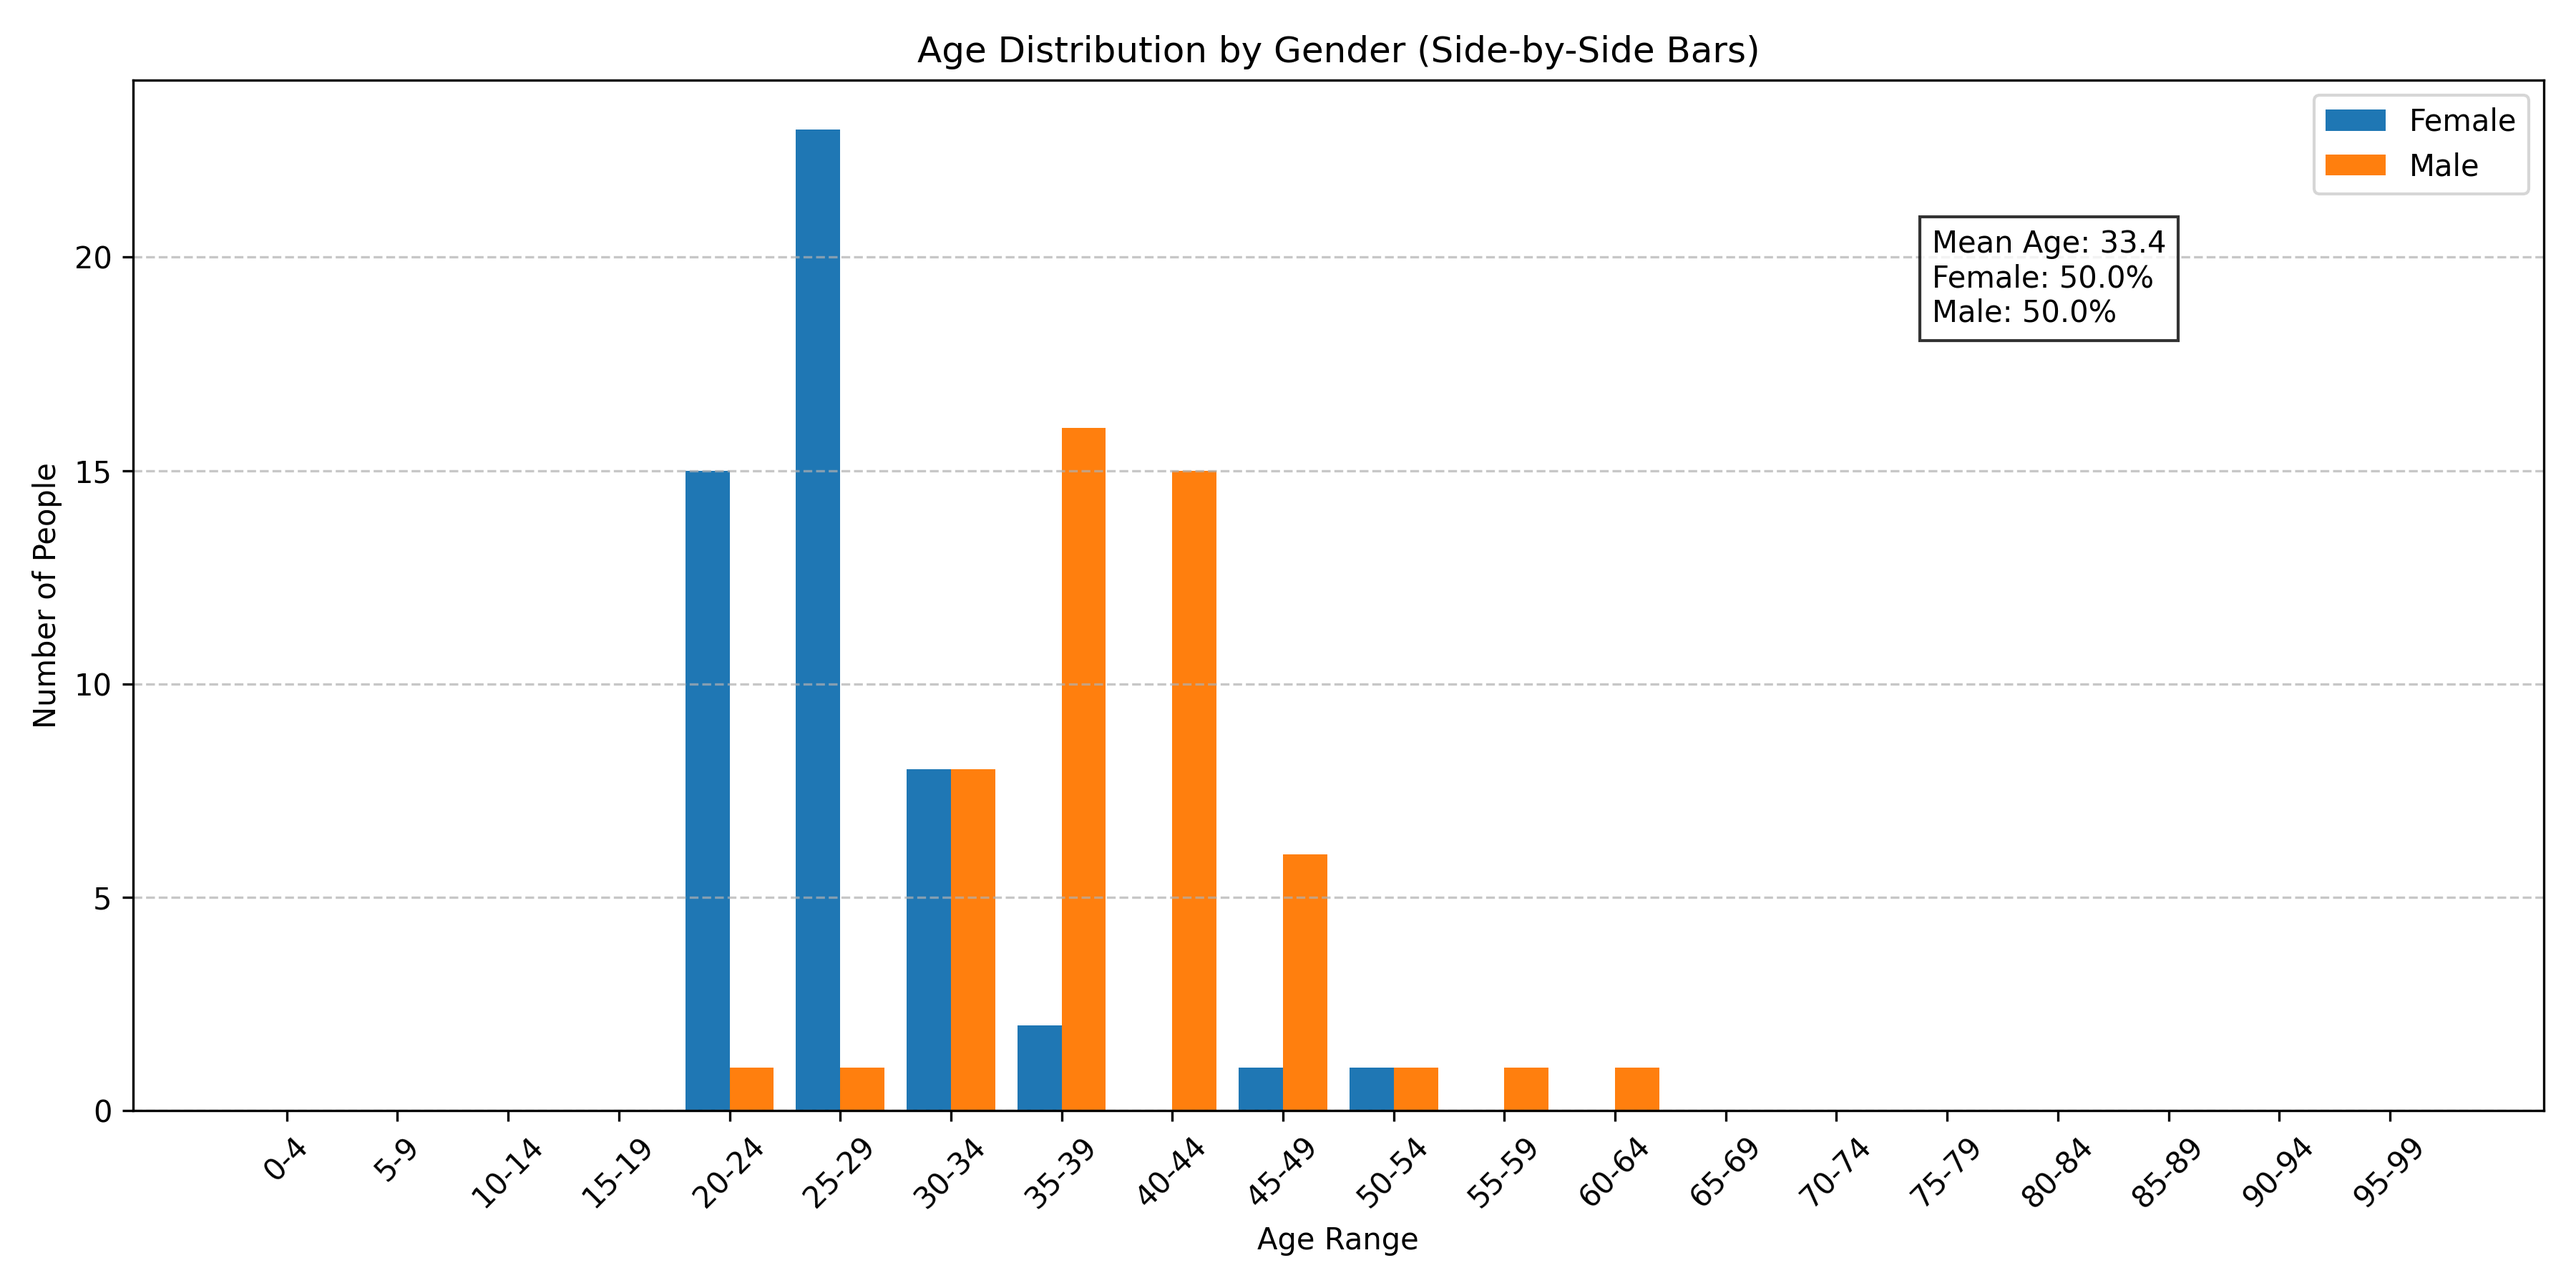
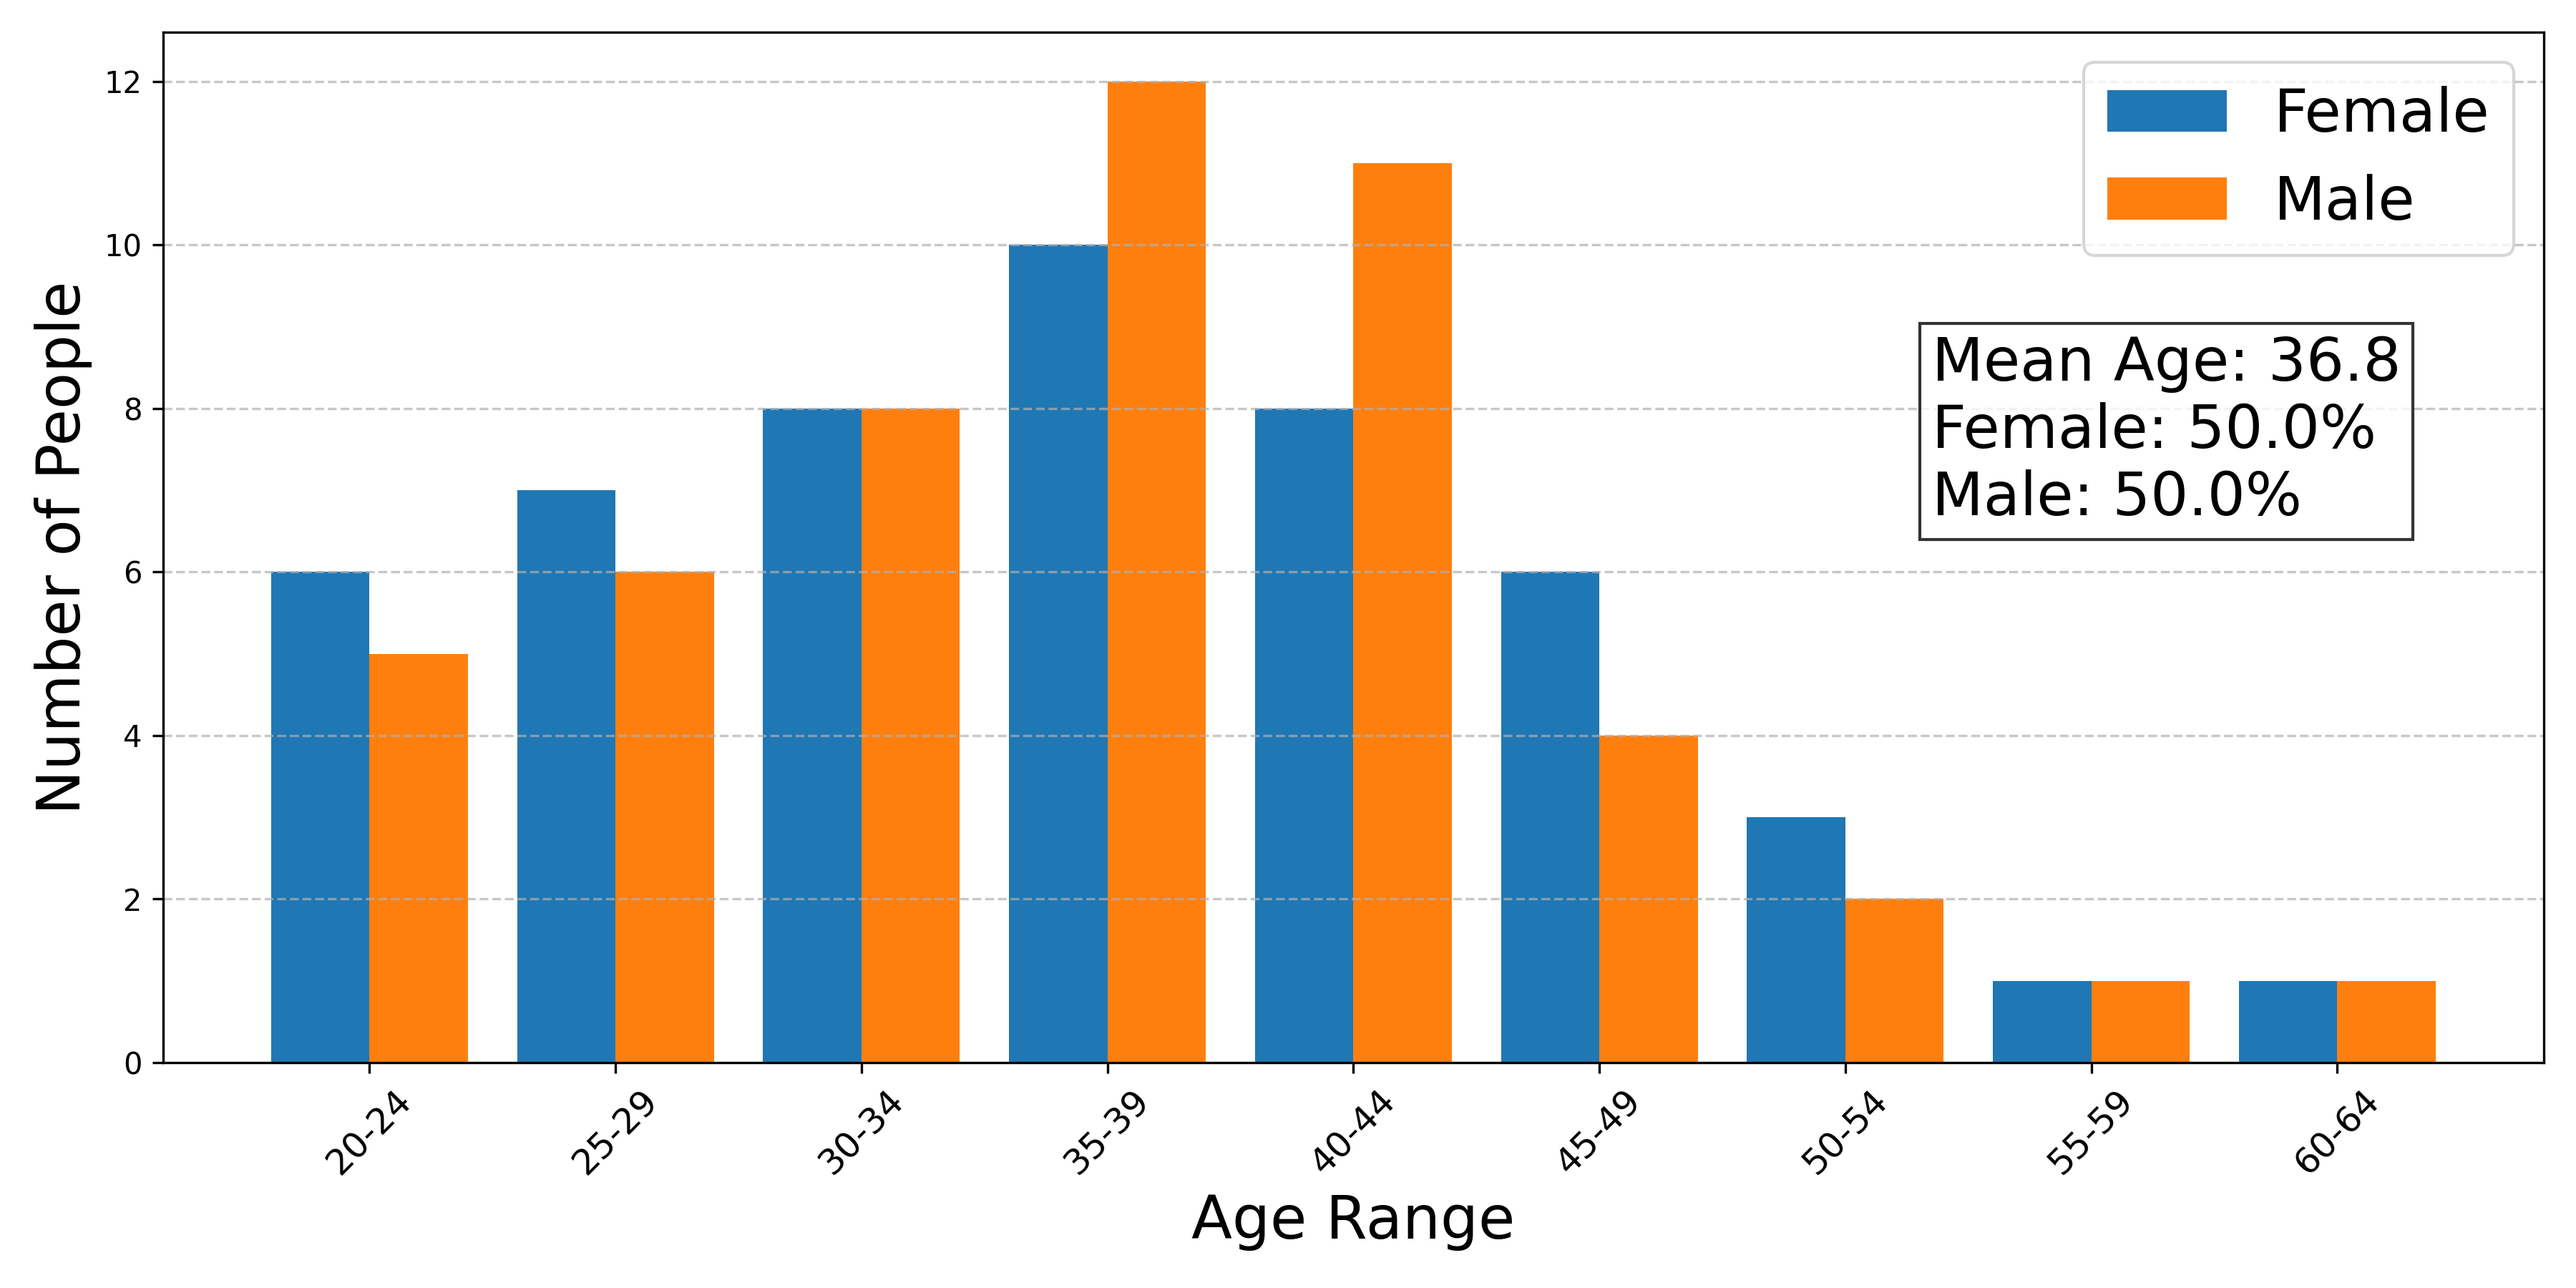
final fixes

diff --git a/pop_graphs.py b/pop_graphs.py
@@ -4,8 +4,8 @@ import numpy as np
 import os
 
 # Replace with your file path
-file_path = 'outputs/populations/10_pop.txt'
-output_path = 'outputs/populations/plots/age_distribution_10.png'
+file_path = 'outputs/populations/100_pop.txt'
+output_path = 'outputs/populations/plots/age_distribution_100.png'
 ages_by_gender = defaultdict(list)
 total_count = 0
 gender_count = defaultdict(int)
@@ -43,15 +43,28 @@ for gender in gender_list:
         bin_range = range(bins[i], bins[i + 1])
         bin_counts[gender][i] = sum(age_counts[age] for age in bin_range)
 
-# Plotting side-by-side bars
-x = np.arange(len(bin_labels))  # label positions
+# Identify non-empty bins
+non_empty_indices = [
+    i for i in range(len(bin_labels))
+    if any(bin_counts[gender][i] > 0 for gender in gender_list)
+]
+
+# Filter labels and counts
+filtered_bin_labels = [bin_labels[i] for i in non_empty_indices]
+filtered_bin_counts = {
+    gender: [bin_counts[gender][i] for i in non_empty_indices]
+    for gender in gender_list
+}
+
+# Plotting
+x = np.arange(len(filtered_bin_labels))  # label positions
 width = 0.8 / len(gender_list)  # divide bar width among genders
 
 plt.figure(figsize=(12, 6))
 
 for idx, gender in enumerate(gender_list):
     offset = (idx - len(gender_list) / 2) * width + width / 2
-    plt.bar(x + offset, bin_counts[gender], width=width, label=gender)
+    plt.bar(x + offset, filtered_bin_counts[gender], width=width, label=gender)
 
 # Summary box
 mean_age = np.mean(all_ages)
@@ -60,16 +73,15 @@ for gender in gender_count:
     percent = (gender_count[gender] / total_count) * 100
     summary_text += f"{gender}: {percent:.1f}%\n"
 
-# Labels and formatting
-plt.xticks(x, bin_labels, rotation=45)
-plt.xlabel('Age Range')
-plt.ylabel('Number of People')
-plt.title('Age Distribution by Gender (Side-by-Side Bars)')
-plt.legend()
+# Labels and formatting with increased font sizes
+plt.xticks(x, filtered_bin_labels, rotation=45, fontsize=12)
+plt.xlabel('Age Range', fontsize=20)
+plt.ylabel('Number of People', fontsize=20)
+plt.legend(fontsize=20)
 plt.grid(axis='y', linestyle='--', alpha=0.7)
 
-# Add summary box
-plt.gcf().text(0.75, 0.75, summary_text.strip(), bbox=dict(facecolor='white', alpha=0.8), fontsize=10)
+# Add summary box with larger font
+plt.gcf().text(0.75, 0.6, summary_text.strip(), bbox=dict(facecolor='white', alpha=0.8), fontsize=20)
 
 plt.tight_layout()
 plt.savefig(output_path, dpi=300)

diff --git a/pop_traits.py b/pop_traits.py
@@ -57,12 +57,17 @@ def calculate_stats(file_path, test_type):
     return stats
 
 def mse_distance(stats1, stats2):
-    error = 0.0
+    errors = []
     for trait in stats1:
         if trait in stats2:
-            error += (stats1[trait]["avg"] - stats2[trait]["avg"]) ** 2
-            error += (stats1[trait]["std"] - stats2[trait]["std"]) ** 2
-    return round(error, 4)
+            mean_diff = (stats1[trait]["avg"] - stats2[trait]["avg"]) ** 2
+            std_diff = (stats1[trait]["std"] - stats2[trait]["std"]) ** 2
+            errors.append((mean_diff + std_diff) / 2)
+    if TEST_TYPE == "bfi":
+        return round(sum(errors) / len(errors), 4)  # mean MSE across BFI traits
+    else:
+        return round(sum(errors), 4)  # total MSE for single-trait tests
+
 
 # Run over temperatures from 0.0 to 2.0 (step = 0.1)
 results = {}

diff --git a/compare_models.py b/compare_models.py
@@ -3,8 +3,8 @@ from config import TEST_TYPE, CRED, CGREEN, CEND
 from scipy.stats import ttest_ind
 
 # Define file paths
-model1_path = f'outputs/statistics/llama/{TEST_TYPE}/combined_responses.csv'
-model2_path = f'outputs/statistics/deepseek/{TEST_TYPE}/combined_responses.csv'
+model1_path = f'outputs/statistics/gpt-turbo/{TEST_TYPE}/combined_responses.csv'
+model2_path = f'outputs/statistics/gpt-turbo_100/{TEST_TYPE}/combined_responses.csv'
 
 # Load the data
 df_model1 = pd.read_csv(model1_path)

diff --git a/config.py b/config.py
@@ -1,5 +1,5 @@
-TEST_TYPE = "machiavellianism"
-MODEL = "deepseek"
+TEST_TYPE = "bfi"
+MODEL = "gpt-turbo"
 
 CRED = '\033[91m'
 CGREEN  = '\33[32m'
